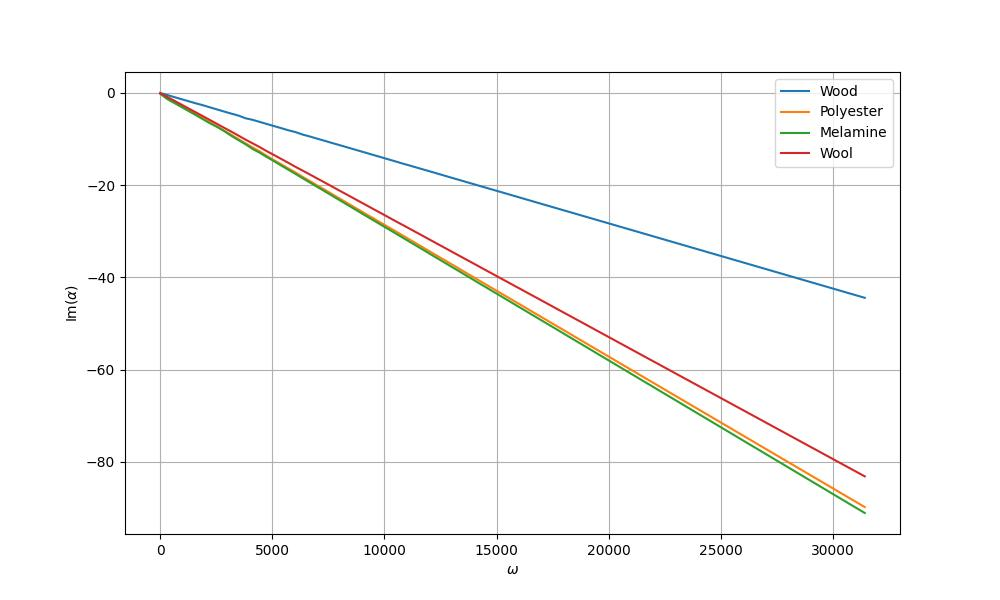
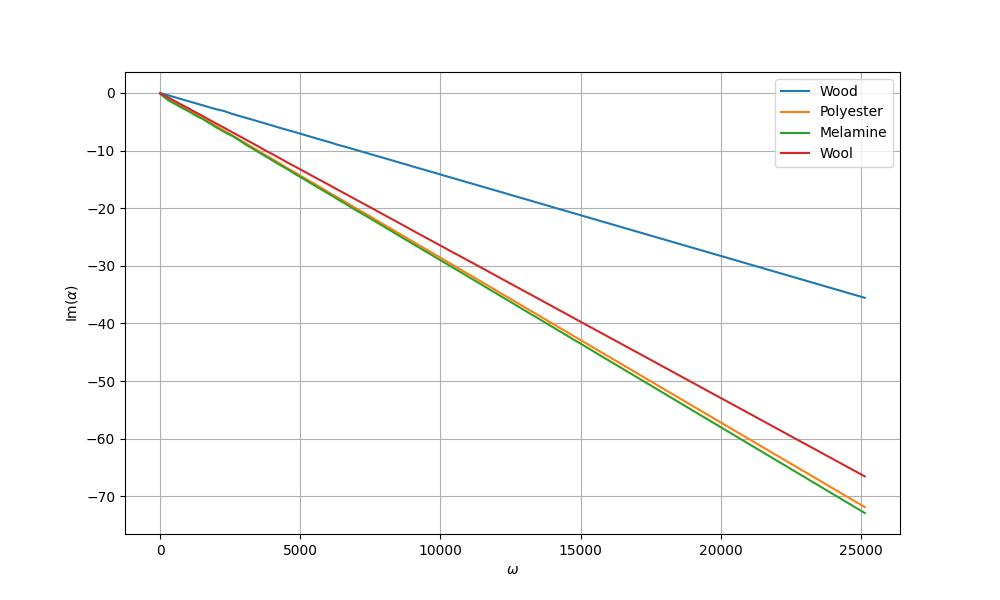
new curves alpha

diff --git a/descente_gradient.py b/descente_gradient.py
@@ -1,0 +1,32 @@
+import numpy as np
+import _env
+
+
+def apply_gradient_descent(values, gradient, grid, learning_rate):
+    (rows, cols) = np.shape(grid)
+    for row in range(1, rows - 1):
+        for col in range(1, cols - 1):
+            if grid[row, col] == _env.NODE_ROBIN:
+                avg_gradient = 0
+                count = 0
+                if grid[row + 1, col] == _env.NODE_INTERIOR:
+                    avg_gradient += gradient[row + 1, col]
+                    count += 1
+                if grid[row, col + 1] == _env.NODE_INTERIOR:
+                    avg_gradient += gradient[row, col + 1]
+                    count += 1
+                if grid[row, col - 1] == _env.NODE_INTERIOR:
+                    avg_gradient += gradient[row, col - 1]
+                    count += 1
+                if grid[row - 1, col] == _env.NODE_INTERIOR:
+                    avg_gradient += gradient[row - 1, col]
+                    count += 1
+                if count != 0:
+                    avg_gradient /= count
+                else:
+                    avg_gradient = 0
+                avg_gradient /= 4
+                values[row, col] -= learning_rate * avg_gradient
+            elif grid[row, col] == _env.NODE_INTERIOR:
+                values[row, col] -= learning_rate * gradient[row, col]
+    return values

diff --git a/compute_alpha.py b/compute_alpha.py
@@ -359,7 +359,7 @@ def run():
     # Calculate alpha for each material
     colors = ["blue", "red", "green", "purple"]
     numb_omega = 100  # Increased for smoother curves
-    omegas = numpy.linspace(2.0 * numpy.pi, numpy.pi * 10000, num=numb_omega)
+    omegas = numpy.linspace(2.0 * numpy.pi, numpy.pi * 8000, num=numb_omega)
 
     # Create figures for real and imaginary parts
     fig_real = matplotlib.pyplot.figure(figsize=(10, 6))
